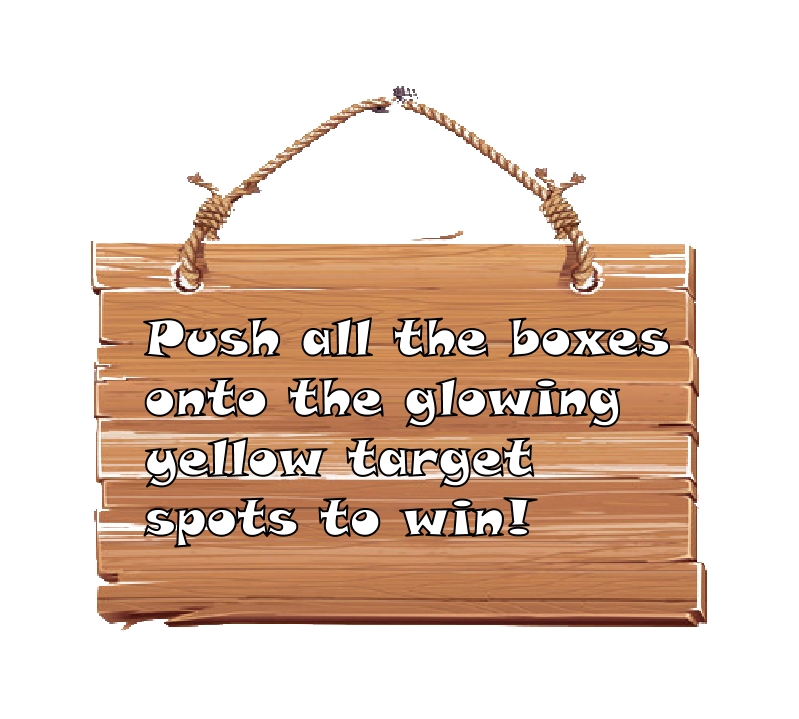
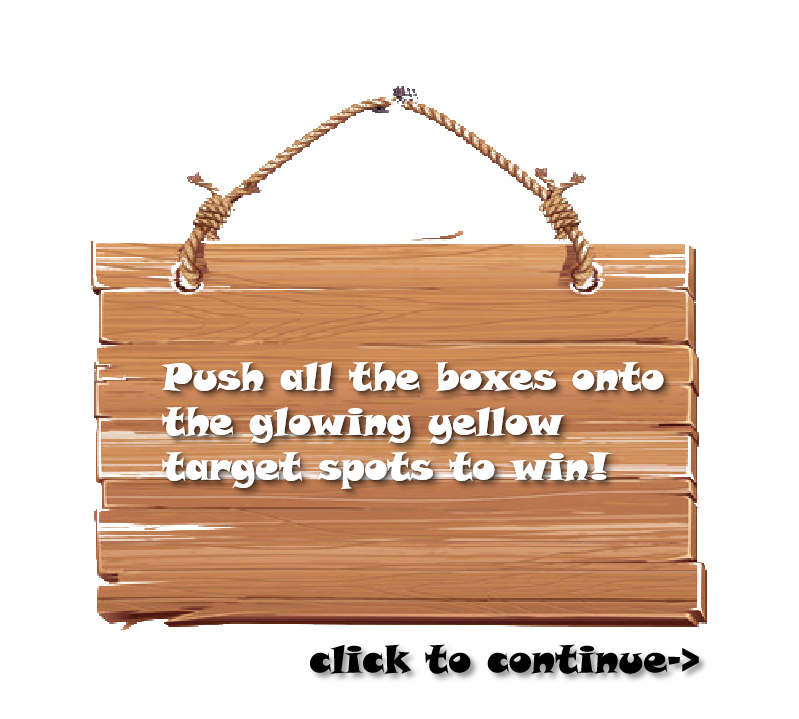
add some buttons

Changed region(s): [[0.1802, 0.4284, 0.8411, 0.765], [0.3905, 0.8873, 0.9011, 0.9485]]

diff --git a/src/game/HelpState.java b/src/game/HelpState.java
@@ -6,6 +6,7 @@ import com.jme3.app.state.BaseAppState;
 import com.jme3.input.InputManager;
 import com.jme3.input.RawInputListener;
 import com.jme3.scene.Node;
+import com.jme3.ui.Picture;
 import com.simsilica.lemur.Container;
 import com.simsilica.lemur.GuiGlobals;
 import com.simsilica.lemur.Label;
@@ -17,7 +18,7 @@ public class HelpState extends BaseAppState {
     private Application app;
     private Node guiNode;
     private GameState gameState;
-    private Label labels[] = new Label[TOTAL_LABELS];
+    private Picture pictures[] = new Picture[TOTAL_LABELS];
     private RawInputListener inputInterceptor; // 用于监测鼠标输入
     private int currentLabel = 0;
 
@@ -39,23 +40,19 @@ public class HelpState extends BaseAppState {
     }
 
     private void initHelp() {
-        labels[0] = new Label("Push all the boxes onto the glowing yellow target spots to win!");
-        labels[1] = new Label("Movement: Use WASD to move, QE to rotate the camera, and Space to push boxes. " +
-                "You can also click the corresponding buttons on the interface.");
-        labels[2] = new Label("Restart: Press R to restart the current level.");
-        labels[3] = new Label("Undo: Press U to undo the last move.");
-        labels[4] = new Label("For more actions, press ESC or click the top-left corner to open the menu.");
-
-        for (Label label : labels) {
-            label.setFontSize(40);
-            label.setLocalTranslation(100, app.getCamera().getHeight() - 100, 0);
+        for (int i = 0; i < TOTAL_LABELS; i++) {
+            pictures[i] = new Picture("help" + (i + 1));
+            pictures[i].setImage(app.getAssetManager(), "help" + (i + 1) + ".png", true);
+            pictures[i].setWidth(1199);
+            pictures[i].setHeight(1079);
+            pictures[i].setLocalTranslation(220, app.getCamera().getHeight() - 950, 0);
         }
     }
 
     @Override
     protected void onEnable() {
         initHelp();
-        guiNode.attachChild(labels[currentLabel]);
+        guiNode.attachChild(pictures[currentLabel]);
 
         // 激活输入监听
         InputManager inputManager = app.getInputManager();
@@ -64,10 +61,10 @@ public class HelpState extends BaseAppState {
                 @Override
                 public void onMouseButtonEvent(com.jme3.input.event.MouseButtonEvent evt) {
                     if (evt.isPressed()) {
-                        labels[currentLabel].removeFromParent();
+                        pictures[currentLabel].removeFromParent();
                         if (currentLabel < TOTAL_LABELS - 1) {
                             currentLabel++;
-                            guiNode.attachChild(labels[currentLabel]);
+                            guiNode.attachChild(pictures[currentLabel]);
                         } else {
                             getStateManager().detach(HelpState.this);
                         }
@@ -101,7 +98,7 @@ public class HelpState extends BaseAppState {
 
     @Override
     protected void onDisable() {
-        if (currentLabel < TOTAL_LABELS) labels[currentLabel].removeFromParent();
+        if (currentLabel < TOTAL_LABELS) pictures[currentLabel].removeFromParent();
         app.getInputManager().removeRawInputListener(inputInterceptor); // 移除输入监听
         gameState.closeHelp();
     }

diff --git a/src/game/GameState.java b/src/game/GameState.java
@@ -27,7 +27,7 @@ public class GameState extends BaseAppState {
     private boolean isMenuOpen = false, isHelping = false, isSolving = false, isSolverWorking = false;
     private Queue<String> instructions = new LinkedList<>();
     private Queue<Character> solution = new LinkedList<>();
-    private Picture menu;
+    private Picture menu,fd,bk,l,r,Q,E,space;
     private Node guiNode;
 
     public GameState(int level) {
@@ -58,6 +58,55 @@ public class GameState extends BaseAppState {
         menu.setHeight(100);
         menu.setLocalTranslation(15, app.getCamera().getHeight() - 100 , 0);
         guiNode.attachChild(menu);
+
+        fd = new Picture("fd");
+        fd.setImage(app.getAssetManager(), "fd.png", true);
+        fd.setWidth(100);
+        fd.setHeight(100);
+        fd.setLocalTranslation(app.getCamera().getWidth()-300, app.getCamera().getHeight() - 700 , 0);
+        guiNode.attachChild(fd);
+
+        bk = new Picture("bk");
+        bk.setImage(app.getAssetManager(), "bk.png", true);
+        bk.setWidth(100);
+        bk.setHeight(100);
+        bk.setLocalTranslation(app.getCamera().getWidth()-300, app.getCamera().getHeight() - 900 , 0);
+        guiNode.attachChild(bk);
+
+        l = new Picture("l");
+        l.setImage(app.getAssetManager(), "l.png", true);
+        l.setWidth(100);
+        l.setHeight(100);
+        l.setLocalTranslation(app.getCamera().getWidth()-400, app.getCamera().getHeight() - 800 , 0);
+        guiNode.attachChild(l);
+
+        r = new Picture("r");
+        r.setImage(app.getAssetManager(), "r.png", true);
+        r.setWidth(100);
+        r.setHeight(100);
+        r.setLocalTranslation(app.getCamera().getWidth()-200, app.getCamera().getHeight() - 800 , 0);
+        guiNode.attachChild(r);
+
+        space = new Picture("space");
+        space.setImage(app.getAssetManager(), "space.png", true);
+        space.setWidth(100);
+        space.setHeight(100);
+        space.setLocalTranslation(app.getCamera().getWidth()-300, app.getCamera().getHeight() - 800 , 0);
+        guiNode.attachChild(space);
+
+        Q = new Picture("Q");
+        Q.setImage(app.getAssetManager(), "Q.png", true);
+        Q.setWidth(100);
+        Q.setHeight(350);
+        Q.setLocalTranslation(app.getCamera().getWidth()-500, app.getCamera().getHeight() - 900 , 0);
+        guiNode.attachChild(Q);
+
+        E = new Picture("E");
+        E.setImage(app.getAssetManager(), "E.png", true);
+        E.setWidth(100);
+        E.setHeight(350);
+        E.setLocalTranslation(app.getCamera().getWidth()-100, app.getCamera().getHeight() - 900 , 0);
+        guiNode.attachChild(E);
     }
 
     public boolean isSolving() { return isSolving; }
